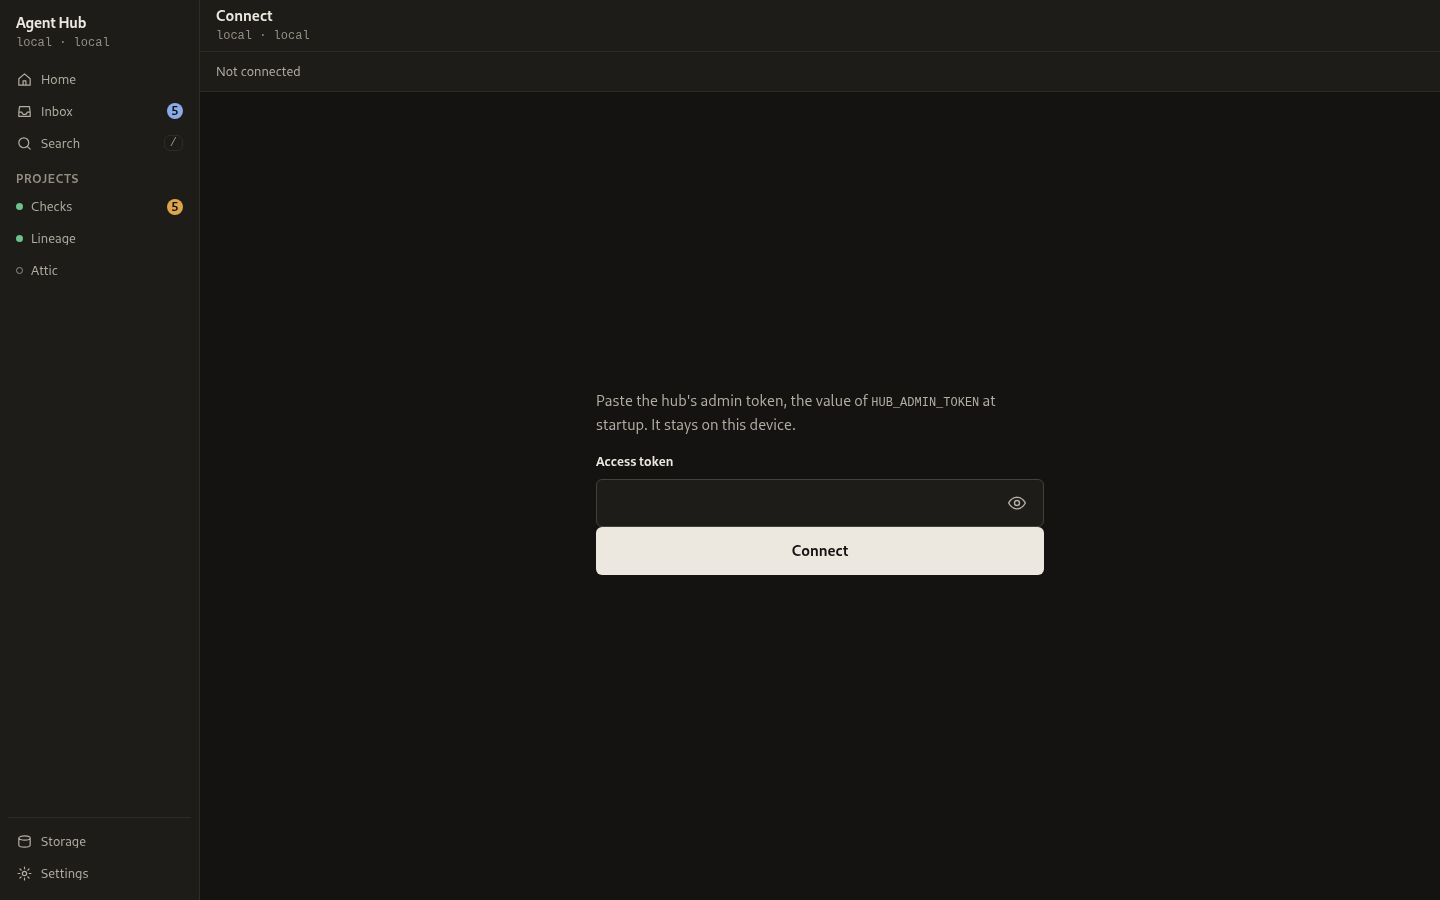
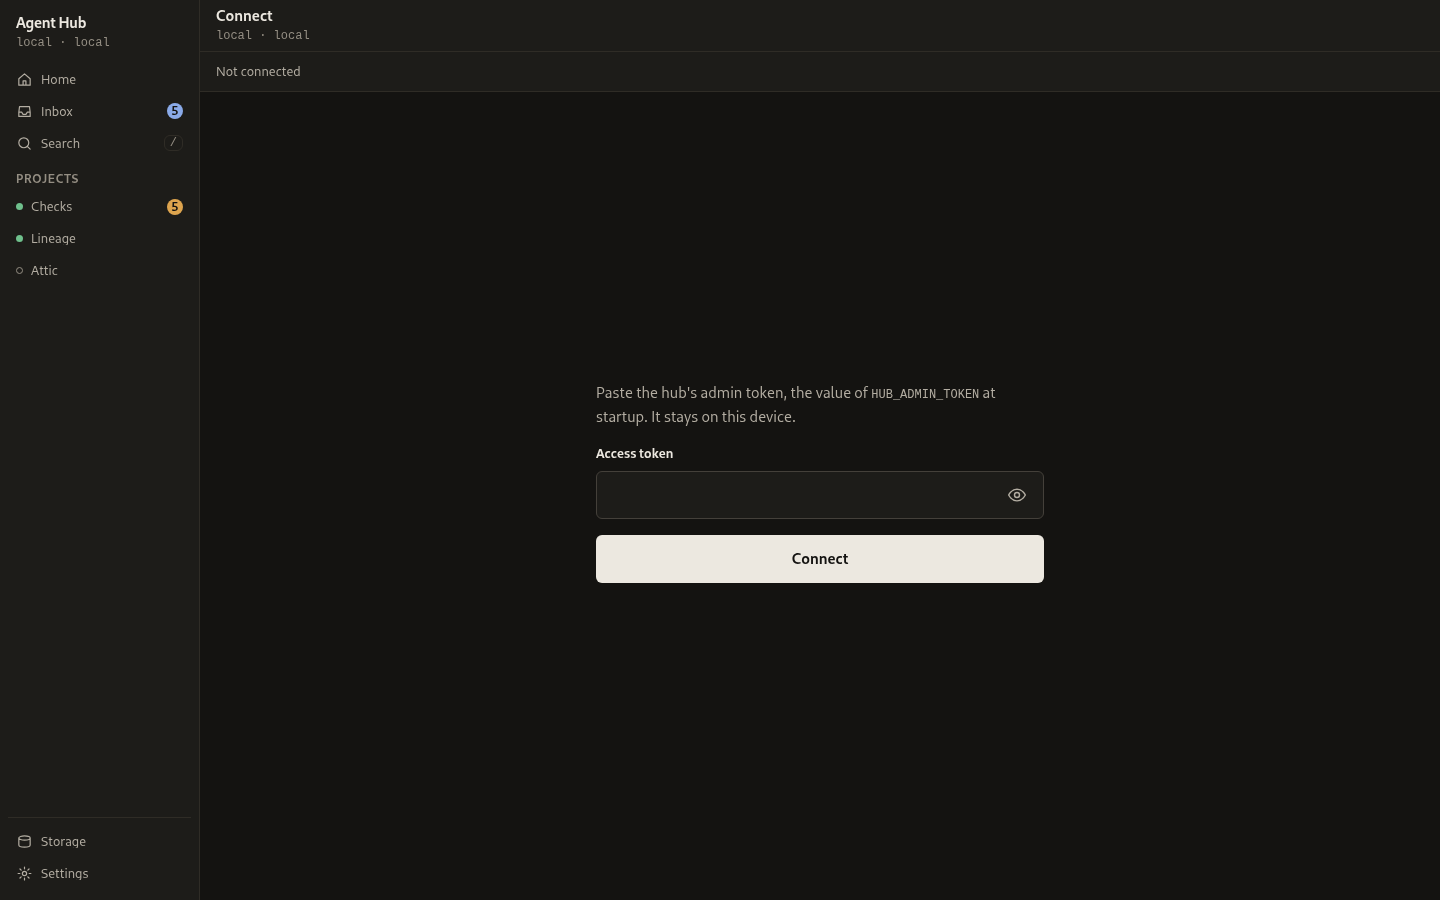
fix(web): draw the focus ring once and space the Connect form
The ring is the shadow `--focus` carries, and the global `:focus-visible` rule
draws it on every control. A wrapper that also draws it on `:focus-within` or
on `:has(...:focus-visible)` therefore paints it twice, and the reader sees two
concentric rings. Measured on the shipped build, the Connect token field had
the ring on `.connect-field-wrap` and on the input inside it, and again on the
eye button when that had focus. The reply composer had the same defect on its
send control: `.composer-row` suppressed `.composer-field` and not
`.composer-send`.

The search field already had this right, so the fix follows it: the wrapper
draws the ring and nothing inside it draws a second.

Four places also dropped the outline under the ring with `outline: none`, which
leaves a browser in forced colours with nothing at all, because that mode drops
every shadow and has only the outline to colour in. The Connect wrappers, the
Connect submit button, the comment composer's textarea and the project register
row now keep a transparent outline. The project row's ring is an inset accent
edge rather than the `--focus` token, and is unchanged except for that outline.

The Connect form was a stack of blocks, so the token field and the Connect
button touched and the button read as part of the field. The form is now a
flex column on the container's own 16px step; the measured gap goes from 0 to
16 at both widths in both themes, and the page does not scroll sideways.
[…]

Changed region(s): [[0.4062, 0.5289, 0.7188, 0.6533], [0.4062, 0.4356, 0.6875, 0.5289]]

diff --git a/web/app.css b/web/app.css
@@ -1315,17 +1315,22 @@ html.has-dialog { overflow: hidden; }
   border: 1px solid var(--line-strong); border-radius: var(--r-2);
   background: var(--surface);
 }
-.composer-row:focus-within { box-shadow: var(--focus); }
+/* The ring is drawn around the whole composer row, so nothing inside it draws
+   a second one. The transparent outline is what a browser in forced colours has
+   left to colour in, where the row's shadow is gone. */
+.composer-row:focus-within {
+  outline: 2px solid transparent;
+  outline-offset: 2px;
+  box-shadow: var(--focus);
+}
 .composer-field {
   flex: 1; min-height: 28px; max-height: 40vh;
   padding: var(--s-2) 0; border: 0; border-radius: 0; background: transparent;
   font-size: var(--t-15); line-height: 28px; resize: none; overflow-y: auto;
 }
 .composer-field::placeholder { color: var(--ink-3); }
-/* The ring is drawn around the whole composer row, so the field inside it
-   does not draw a second one. The transparent outline is what a browser in
-   forced colours has left to colour in, where the row's shadow is gone. */
-.composer-field:focus-visible {
+.composer-row .composer-field:focus-visible,
+.composer-row .composer-send:focus-visible {
   outline: 2px solid transparent; outline-offset: 2px; box-shadow: none;
 }
 .composer-send {
@@ -2684,8 +2689,12 @@ button.inbox-quiet.shell-trailing-btn[disabled] {
   width: 100%;
   box-sizing: border-box;
 }
+/* A row that fills its pane takes its ring inset, so it does not cross the
+   hairline into the row below. The transparent outline is the same ring for a
+   browser in forced colours, where the inset shadow is gone. */
 .project-link:focus-visible {
-  outline: none;
+  outline: 2px solid transparent;
+  outline-offset: -2px;
   box-shadow: inset 0 0 0 2px var(--accent);
 }
 .project-info {
@@ -5144,8 +5153,12 @@ a.session-back {
   overflow-y: hidden;
 }
 
-.hub-composer-field textarea:focus {
-  outline: none;
+/* The field's own shadow is the ring here: the wrapper below only takes the
+   accent border, so there is nothing to double. The transparent outline is what
+   a browser in forced colours has left to colour in, where the shadow is gone. */
+.hub-composer-field textarea:focus-visible {
+  outline: 2px solid transparent;
+  outline-offset: 2px;
 }
 
 .hub-composer-field:focus-within {

diff --git a/DESIGN.md b/DESIGN.md
@@ -207,6 +207,13 @@ structure, not to line length.
 
 ## Components
 
+- **Focus ring.** The ring is the shadow `--focus` carries, and it is drawn
+  once. A field or a row that takes the ring on `:focus-within` is the one
+  object, so the control inside it does not draw a second. What is left under
+  every ring is a transparent 2px outline at 2px offset, because a browser in
+  forced colours drops every shadow and has only that outline to colour in. A
+  ring without it is a ring that vanishes in that mode, which is the one mode
+  where a reader cannot be given a colour to find it by.
 - **Row.** Flex, 12px gap, row padding, a bottom hairline, a minimum height of
   56px on mobile and 44 comfortable / 36 compact on the desktop, on the row
   surface. Hover raises the surface one step.
